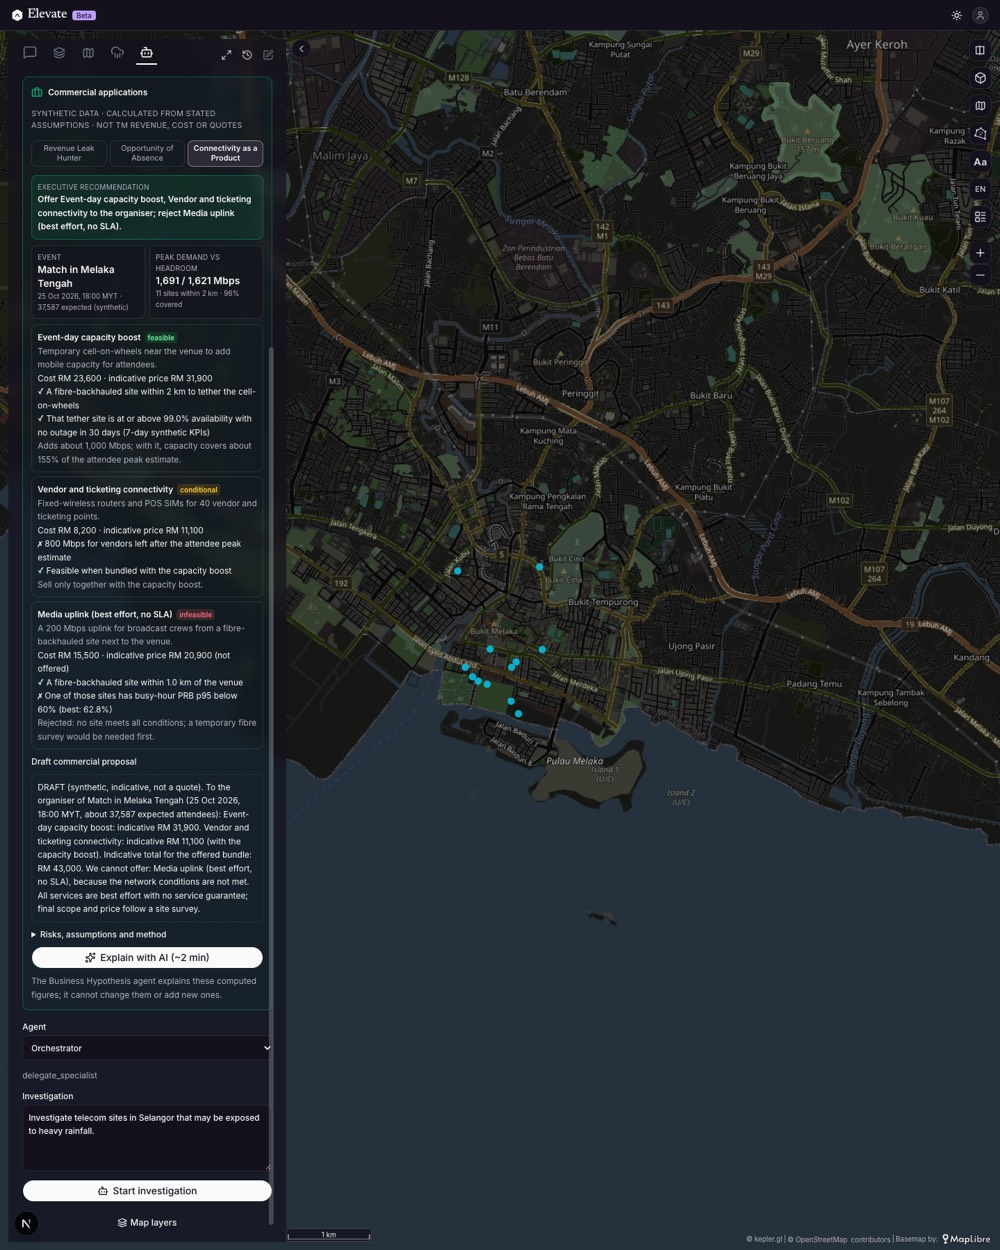
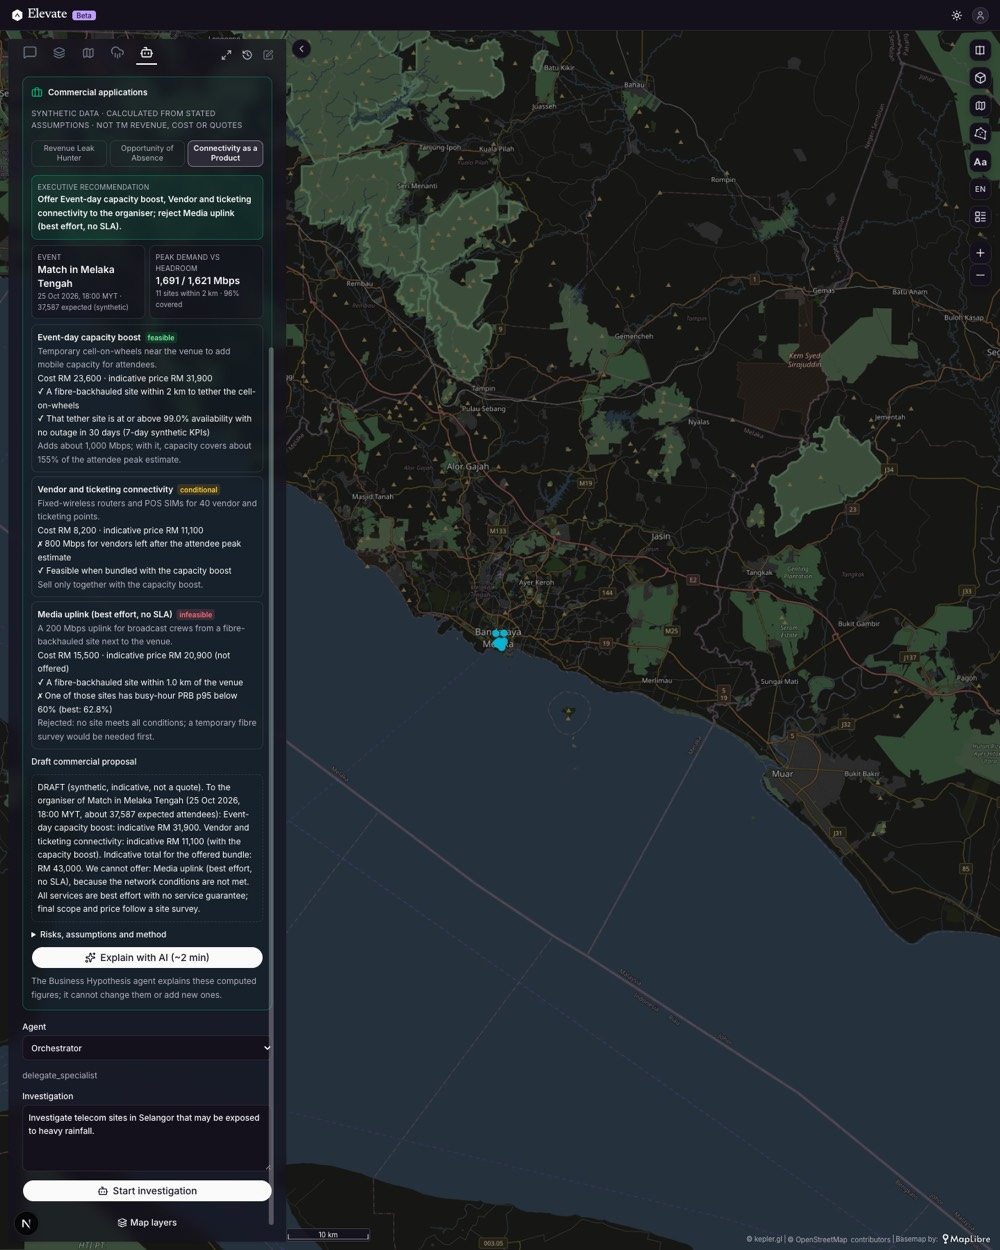
Reuse the Order 4 potential calculation in Opportunity of Absence
The absence application re-implemented the SME opportunity formula and
dropped Order 4's mobile-only factor for fixed wireless, so George Town
showed RM 9,200-36,700 here and RM 4,500-18,200 in Order 4. It now calls
rank._potential (a test asserts equality), shares the existing _km and
_rows helpers, and the docs and screenshots are refreshed.

diff --git a/backend/opportunity-mcp/src/opportunity_mcp/commercial.py b/backend/opportunity-mcp/src/opportunity_mcp/commercial.py
@@ -11,7 +11,6 @@ TM revenue, cost or customer data; "exposure" and "indicative" values are not lo
 
 from __future__ import annotations
 
-import math
 from collections import Counter
 from datetime import timedelta
 from pathlib import Path
@@ -19,9 +18,8 @@ from typing import Any
 
 import duckdb
 
-from opportunity_mcp.graph import OpportunityGraph
-from opportunity_mcp.rank import ASSUMPTIONS as ORDER4_ASSUMPTIONS
-from opportunity_mcp.rank import area_signals, discover
+from opportunity_mcp.graph import OpportunityGraph, _rows
+from opportunity_mcp.rank import _km, _potential, area_signals, discover
 
 WINDOW_DAYS = 60
 
@@ -79,18 +77,6 @@ PACKAGES = {
                      "items": [("Reserved uplink engineering", 6_000), ("On-site media engineer", 2_000), ("Temporary fibre or microwave hop", 7_500)],
                      "description": "A 200 Mbps uplink for broadcast crews from a fibre-backhauled site next to the venue."},
 }
-
-
-def _rows(con: duckdb.DuckDBPyConnection, sql: str, *params: Any) -> list[dict[str, Any]]:
-    cursor = con.execute(sql, list(params))
-    names = [c[0] for c in cursor.description]
-    return [dict(zip(names, row, strict=True)) for row in cursor.fetchall()]
-
-
-def _km(lat1: float, lng1: float, lat2: float, lng2: float) -> float:
-    p1, p2 = math.radians(lat1), math.radians(lat2)
-    a = math.sin((p2 - p1) / 2) ** 2 + math.cos(p1) * math.cos(p2) * math.sin(math.radians(lng2 - lng1) / 2) ** 2
-    return 6371.0 * 2 * math.asin(math.sqrt(a))
 
 
 def _rm(value: float) -> int:
@@ -245,11 +231,10 @@ def absence_gaps(og: OpportunityGraph, intel_db: Path | None = None, predictive:
     for rank, r in enumerate(chosen, start=1):
         s, cls = r["signals"], r["primary_class"]
         kind = "sme_fwa" if cls != "capacity_constraint" else "sme_fibre"
-        a = ORDER4_ASSUMPTIONS[kind]
+        # the exact Order 4 commercial-potential calculation, not a re-implementation
+        potential = _potential(kind, s)
+        low, high = potential["indicative_monthly_recurring_rm"]
         unserved = s["sme_count"] * (1 - s["tm_business_penetration_pct"] / 100)
-        share = (1 - s["fibre_serviceable_pct"] / 100) if kind == "sme_fwa" else s["fibre_serviceable_pct"] / 100
-        addressable = unserved * share
-        low, high = addressable * a["take_up_pct"][0] / 100 * a["arpu_rm_month"][0], addressable * a["take_up_pct"][1] / 100 * a["arpu_rm_month"][1]
         why = [f"{s['sme_count']:,} SMEs (synthetic), ~{unserved:,.0f} not on TM business broadband; {s['broadband_enquiries_90d']} enquiries in 90 days.",
                f"Evening footfall {s['evening_footfall_mean']:,.0f}/hour; demand percentile {r['demand_percentile']:.0%} of 38 areas (synthetic)."]
         constraint = {"verified_gap": f"Only {s['fibre_serviceable_pct']:.0f}% of SME premises are fibre-serviceable (synthetic serviceability records, {r['evidence']['signal_measurements']} signal measurements).",
@@ -258,8 +243,8 @@ def absence_gaps(og: OpportunityGraph, intel_db: Path | None = None, predictive:
         results.append({"rank": rank, "area_id": r["area_id"], "area": s["name"], "cluster": s["cluster"], "state": s["state"], "lat": s["lat"], "lng": s["lng"],
                         "classification": cls, "classification_label": labels[cls], "all_classes": r["classes"], "why_it_matters": why,
                         "technical_constraint": constraint, "evidence": r["evidence"], "recommended_action": actions[cls],
-                        "indicative_opportunity_rm_month": {"low": _rm(low), "high": _rm(high), "addressable_smes": round(addressable),
-                                                            "basis": f"Order 4 {kind} assumptions: take-up {a['take_up_pct'][0]}-{a['take_up_pct'][1]}%, ARPU RM {a['arpu_rm_month'][0]}-{a['arpu_rm_month'][1]}",
+                        "indicative_opportunity_rm_month": {"low": _rm(low), "high": _rm(high), "addressable_smes": potential["addressable"],
+                                                            "basis": f"Order 4 {kind} assumptions: take-up {potential['take_up_pct_assumed'][0]}-{potential['take_up_pct_assumed'][1]}%, ARPU RM {potential['arpu_rm_month_assumed'][0]}-{potential['arpu_rm_month_assumed'][1]}",
                                                             "condition": "only after the survey or upgrade confirms serviceability" if cls != "verified_gap" else "fixed-wireless offer where radio serviceability is confirmed"},
                         "predictive_context": (predictive or {}).get(r["area_id"])})
         features.append(_point(s["lng"], s["lat"], id=r["area_id"], kind=f"absence_{cls}", rank=rank, area=s["name"], classification=labels[cls]))

diff --git a/backend/opportunity-mcp/tests/test_commercial.py b/backend/opportunity-mcp/tests/test_commercial.py
@@ -7,7 +7,7 @@ import json
 from types import SimpleNamespace
 
 import pytest
-from opportunity_mcp import commercial, graph, predictive
+from opportunity_mcp import commercial, graph, predictive, rank
 
 
 @pytest.fixture()
@@ -50,6 +50,10 @@ def test_absence_never_treats_missing_data_as_a_verified_gap(og, built):
             assert not measured and "unverified, not absent" in r["technical_constraint"]
             assert "Survey first" in r["recommended_action"]
         assert r["indicative_opportunity_rm_month"]["low"] <= r["indicative_opportunity_rm_month"]["high"]
+        # identical to the Order 4 calculation for the same area (no divergent re-implementation)
+        kind = "sme_fibre" if r["classification"] == "capacity_constraint" else "sme_fwa"
+        assert [r["indicative_opportunity_rm_month"]["low"], r["indicative_opportunity_rm_month"]["high"]] == \
+            rank._potential(kind, rank.area_signals(og)[r["area_id"]])["indicative_monthly_recurring_rm"]
     assert result["predictive_service"]["available"] is False
 
 

diff --git a/docs/COMMERCIAL_APPLICATIONS.md b/docs/COMMERCIAL_APPLICATIONS.md
@@ -76,7 +76,7 @@ Each figure states its condition, for example "only after the survey or upgrade 
 **Order 5:** if mlpredict-mcp (:8126) answers within 4 s, its `get_business_demand_signals` values are attached as supplementary context. They never change a class, rank or figure. When the service is not running, as on this Mac, the result says "Order 5 predictive service unavailable … graph-derived evidence used".
 
 **Demo:**
-- **George Town, verified gap:** 58% fibre-serviceable, 24 measurements showing good RSRP, so a fixed-wireless offer is feasible. RM 9,200–36,700 a month, indicative.
+- **George Town, verified gap:** 58% fibre-serviceable, 24 measurements showing good RSRP, so a fixed-wireless offer is feasible. RM 4,500–18,200 a month, indicative, identical to its Order 4 card because Order 4's own potential calculation is called.
 - **Miri, capacity constraint:** PRB p95 71.4%. A capacity study comes first.
 - **Tawau, missing information:** 0 measurements. Survey first; do not invest or market yet.
 
